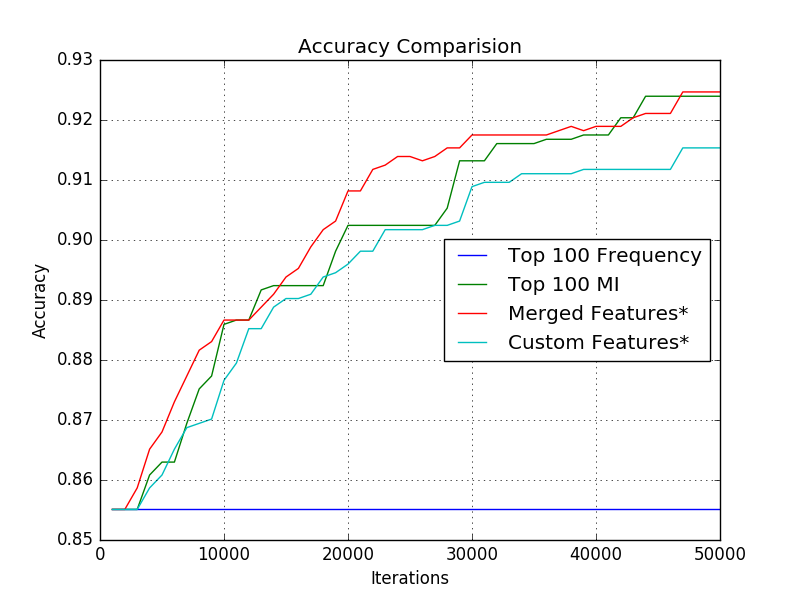
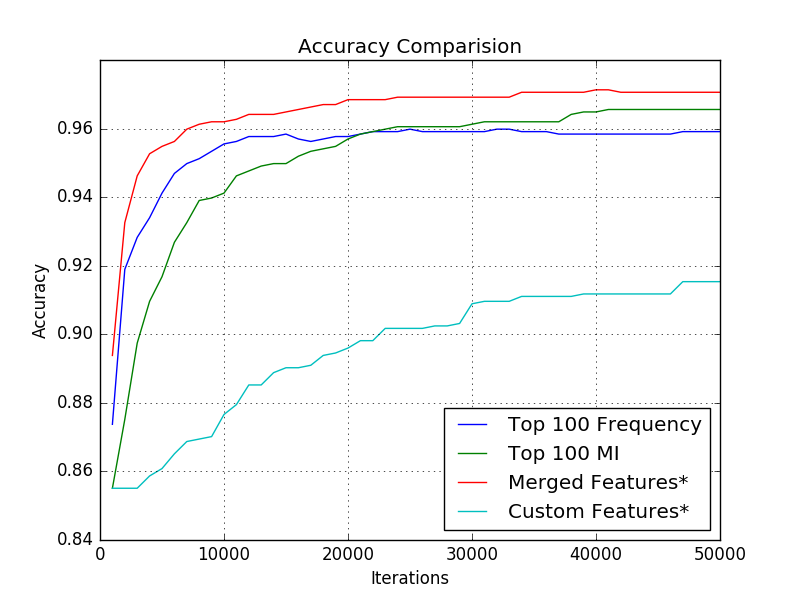
UPDATED: output for accuracy comparision for N=100

diff --git a/Assignment2/Report/accuracy_comparision_by_feature_selections_100.md b/Assignment2/Report/accuracy_comparision_by_feature_selections_100.md
@@ -1,12 +1,12 @@
 |        Configurations        |           Accuracy           |
 |------------------------------|------------------------------|
-|      Top 100 Frequency       |      0.8550932568149211      |
-|          Top 100 MI          |      0.9239598278335724      |
-|       Merged Features*       |      0.9246771879483501      |
+|      Top 100 Frequency       |      0.9591104734576757      |
+|          Top 100 MI          |      0.9655667144906743      |
+|       Merged Features*       |      0.9705882352941176      |
 |       Custom Features*       |      0.9153515064562411      |
 
 Merged Features selected:
-['I', 'in', 'u', 'Call', 'To', 'the', 'my', 'Txt', 'to', 'is', 'you', 'FREE', 'a', 'claim', 'mobile', 'i', 'and', '&']
+['', 'in', 'come', 'from', 'by', 'Free', 'or', 'like', 'entry', '12hrs', '£2000', 'am', 'call', 'No', 'back', 'FREE', 'WON', 'I', '...', 'Reply', 'so', 'that', 'was', "I'll", 'i', 'one', 'tones', 'you', '£1000', 'not', '&lt;#&gt;', 'GUARANTEED.', 'tell', 'You', '\n', 'reply', 'weekly', 'But', 'about', 'and', 'Todays', 'the', 'can', '-', 'no', 'Box', '86688', 'for', 'Mobile', 'prize', '2', 'need', 'your', 'contact', 'send', 'will', 'tone', 'receive', 'ringtone', 'won', 'are', '500', 'know', 'text', 'go', 'my', 'free', 'now', 'Nokia', 'then', 'to', '£5000', 'Just', 'he', 'me', 'Call', '4', 'have', 'got', 'U', '18', 'do', 'Holiday', 'draw', 'collection.', 'If', 'as', 'at', 'awarded', 'Claim', 'n', 'mobile', 'service', 'u', 'still', 'guaranteed', 'be', 'just', 'we', 'Valid', 'selected', 'T&Cs', 'URGENT!', 'customer', 'only', 'is', 'when', 'land', '8007', 'all', 'claim', 'but', 'STOP', "don't", '&', '4*', 'this', 'what', 'cash', 'some', 'per', 'of', 'ü', 'how', 'landline.', 'up', 'shows', 'TONE', 'on', '.', 'line.', '£100', 'So', 'Your', 'win', 'out', 'it', 'our', 'Get', 'WIN', 'its', 'My', 'attempt', "I'm", 'a', 'get', 'To', 'Orange', 'await', 'Txt', '?', 'now!', 'How', 'if', 'prize.', 'with', 'PO', 'We', 'Do', 'want', 'good', 'going', 'Text', 'network', 'ur', 'there', 'latest', 'time', 'r', 'any', 'txt', '750']
 
 Custom Features selected:
 ['I', 'Call', 'i', 'Free', 'claim', 'to', 'you', 'a', 'the', 'and', 'prize', 'www.', 'customer']
